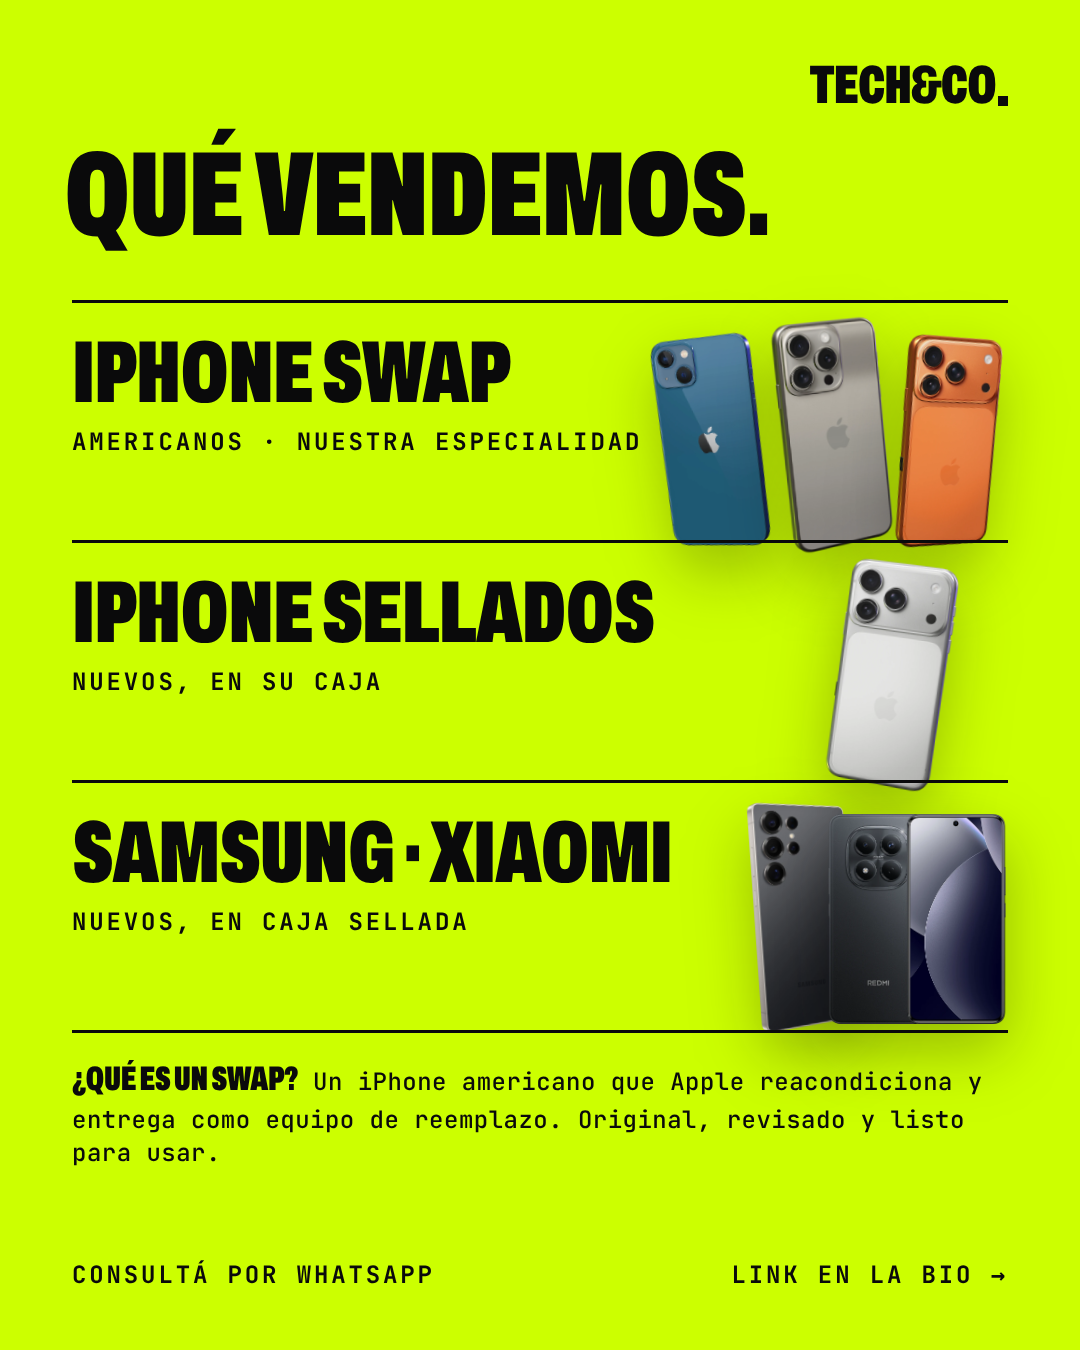
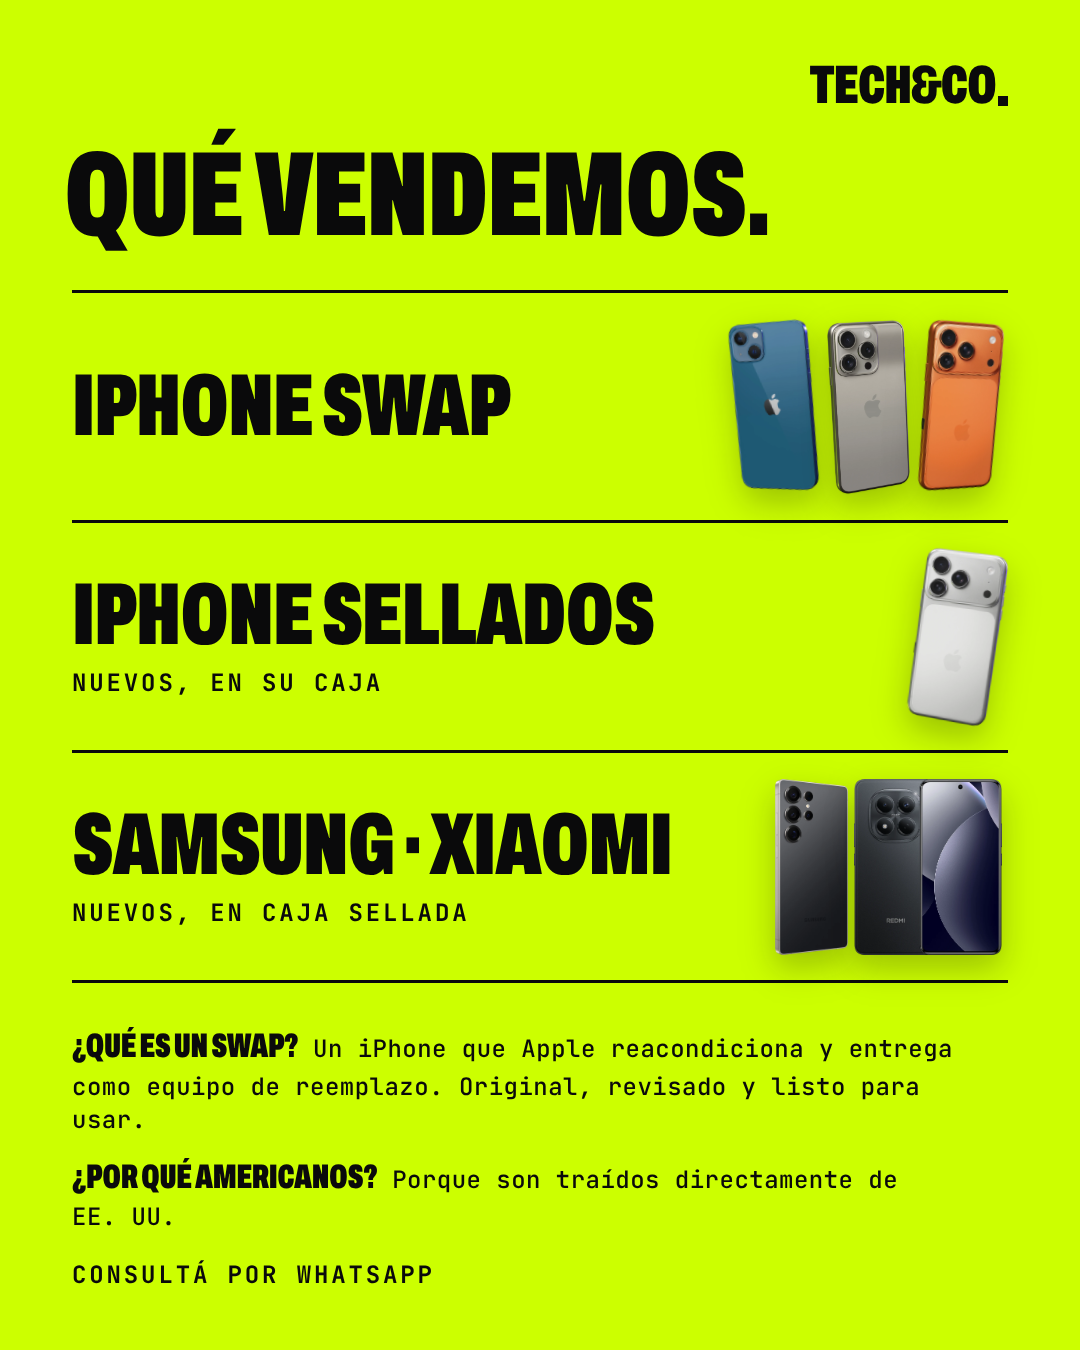
Flyer qué vendemos: «Los mejores en», «¿Por qué americanos?», filas prolijas y sin «Link en la bio»
Claude-Session: https://claude.ai/code/session_01QjqnXA2NEseQ99853TgKmF

diff --git a/plantillas/flyer.html b/plantillas/flyer.html
@@ -12,7 +12,7 @@
 <link rel="stylesheet" href="piezas.css">
 <!--
   Flyer "qué vendemos" (imagen fija, post 1080×1350):
-    ?opcion=a   Especialistas en iPhone Swap americanos (tinta), con la explicación de qué es un Swap
+    ?opcion=a   Los mejores en iPhone Swap americanos (tinta), con «¿Qué es un Swap?» y «¿Por qué americanos?»
     ?opcion=b   Qué vendemos: tres secciones (iPhone Swap · iPhone sellados · Samsung y Xiaomi) sobre lima
   node exportar_video.js plantillas/flyer.html "opcion=a&formato=post" salida.png --cuadro 0
   Sin precios. Fotos: iPhone en 3D (assets/fotos3d) y Samsung/Xiaomi oficiales (catalogo/img).
@@ -34,39 +34,46 @@
   #a .previa { left: var(--margen); top: 150px; font-size: var(--m-l); color: var(--lima); }
   #a .grande { left: 64px; top: 196px; font-size: var(--t-l); }
   #a .grande .lima-txt { color: var(--lima); }
-  #a .que { left: var(--margen); top: 640px; width: 470px; display: flex; flex-direction: column; gap: 18px; }
+  #a .que { left: var(--margen); top: 590px; width: 470px; display: flex; flex-direction: column; gap: 40px; }
+  #a .que div { display: flex; flex-direction: column; gap: 14px; }
   #a .que h2 { font-size: var(--t-xs); margin: 0; color: var(--lima); }
-  #a .tambien { left: var(--margen); right: var(--margen); top: 1035px; display: flex; flex-direction: column; gap: 14px; }
+  #a .tambien { left: var(--margen); right: var(--margen); top: 1080px; display: flex; flex-direction: column; gap: 14px; }
   #a .tambien .rot { font-size: var(--m-m); color: var(--acero); }
   #a .tambien .lista { font-size: var(--t-xs); }
   #a .tambien .lista span { color: var(--lima); }
-  #a .disco { position: absolute; left: 790px; top: 830px; width: 470px; height: 470px; translate: -50% -50%; border-radius: 50%; background: var(--voltio); }
+  #a .disco { position: absolute; left: 790px; top: 790px; width: 470px; height: 470px; translate: -50% -50%; border-radius: 50%; background: var(--voltio); }
 
   /* ---- opción B ---- */
   #b .grande { left: 64px; top: 140px; font-size: var(--t-m); }
-  #b .fila { position: absolute; left: var(--margen); right: var(--margen); height: 240px; border-top: 3px solid var(--tinta); }
-  #b .fila .txt { position: absolute; left: 0; top: 30px; display: flex; flex-direction: column; gap: 12px; }
+  /* filas iguales entre líneas de 3 px; los equipos van dentro de cada fila, sin tocar las líneas */
+  #b .filas { left: var(--margen); right: var(--margen); top: 290px; border-bottom: 3px solid var(--tinta); }
+  #b .fila { height: 230px; border-top: 3px solid var(--tinta); display: flex; align-items: center; justify-content: space-between; gap: 24px; }
+  #b .fila .txt { display: flex; flex-direction: column; gap: 12px; }
+  #b .fila .fotos { display: flex; align-items: center; gap: 6px; padding-right: 6px; }
+  #b .fila .fotos img { height: 176px; filter: drop-shadow(0 14px 16px rgba(10,10,11,.25)); }
   #b .fila .nombre { font-size: var(--t-s); }
   #b .fila .det { font-size: var(--m-m); }
-  #b .swap { left: var(--margen); right: var(--margen); top: 1030px; border-top: 3px solid var(--tinta); padding-top: 22px; }
+  #b .swap { left: var(--margen); right: var(--margen); top: 1022px; display: flex; flex-direction: column; gap: 16px; }
   #b .swap b { font-family: var(--f-titulo); font-weight: 900; font-stretch: 62%; text-transform: uppercase; font-size: 34px; letter-spacing: var(--ls-titulo); }
 </style>
 </head>
 <body>
 
-<!-- ======================= OPCIÓN A · ESPECIALISTAS ======================= -->
+<!-- ======================= OPCIÓN A · LOS MEJORES EN IPHONE SWAP ======================= -->
 <section id="a" class="tinta">
   <div class="abs cabeza mono"><span></span><span class="logo-tc">Tech<b>&amp;</b>Co<i></i></span></div>
-  <div class="abs mono previa">Especialistas en</div>
+  <div class="abs mono previa">Los mejores en</div>
   <div class="abs titulo grande">iPhone Swap<br><span class="lima-txt">americanos.</span></div>
 
   <div class="disco"></div>
-  <img class="foto" src="assets/fotos3d/15pro-natural.webp" alt="iPhone 15 Pro titanio natural" style="left: 680px; top: 840px; height: 470px; rotate: -10deg;">
-  <img class="foto" src="assets/fotos3d/17pro-plata-frente.webp" alt="iPhone 17 Pro plata" style="left: 850px; top: 820px; height: 530px; rotate: 6deg;">
+  <img class="foto" src="assets/fotos3d/15pro-natural.webp" alt="iPhone 15 Pro titanio natural" style="left: 680px; top: 800px; height: 470px; rotate: -10deg;">
+  <img class="foto" src="assets/fotos3d/17pro-plata-frente.webp" alt="iPhone 17 Pro plata" style="left: 850px; top: 780px; height: 530px; rotate: 6deg;">
 
   <div class="abs que">
-    <h2 class="titulo">¿Qué es un Swap?</h2>
-    <p class="parrafo" style="margin: 0;">Es un iPhone americano que Apple reacondiciona y entrega como equipo de reemplazo. Original, revisado y listo para usar.</p>
+    <div><h2 class="titulo">¿Qué es un Swap?</h2>
+      <p class="parrafo" style="margin: 0;">Es un iPhone que Apple reacondiciona y entrega como equipo de reemplazo. Original, revisado y listo para usar.</p></div>
+    <div><h2 class="titulo">¿Por qué americanos?</h2>
+      <p class="parrafo" style="margin: 0;">Porque son traídos directamente de EE.&nbsp;UU.</p></div>
   </div>
 
   <div class="abs tambien">
@@ -74,7 +81,7 @@
     <span class="titulo lista">iPhone en caja sellada <span>·</span> Samsung <span>·</span> Xiaomi</span>
     <span class="mono rot" style="color: var(--hueso);">Nuevos, en caja sellada</span>
   </div>
-  <div class="abs pie mono"><span>Consultá por WhatsApp</span><span>Link en la bio →</span></div>
+  <div class="abs pie mono"><span>Consultá por WhatsApp</span></div>
 </section>
 
 <!-- ======================= OPCIÓN B · QUÉ VENDEMOS ======================= -->
@@ -82,35 +89,33 @@
   <div class="abs cabeza mono"><span></span><span class="logo-tc">Tech<b>&amp;</b>Co<i></i></span></div>
   <div class="abs titulo grande">Qué vendemos.</div>
 
-  <div class="fila" style="top: 300px;">
-    <div class="txt">
-      <span class="titulo nombre">iPhone Swap</span>
-      <span class="mono det">Americanos · Nuestra especialidad</span>
+  <div class="abs filas">
+    <div class="fila">
+      <div class="txt"><span class="titulo nombre">iPhone Swap</span></div>
+      <div class="fotos">
+        <img src="assets/fotos3d/13-azul.webp" alt="iPhone 13 azul" style="rotate: -8deg;">
+        <img src="assets/fotos3d/15pro-natural.webp" alt="iPhone 15 Pro titanio natural">
+        <img src="assets/fotos3d/17pro-naranja-der.webp" alt="iPhone 17 Pro naranja cósmico" style="rotate: 8deg;">
+      </div>
     </div>
-    <img class="foto" src="assets/fotos3d/13-azul.webp" alt="iPhone 13 azul" style="left: 640px; top: 140px; height: 220px; rotate: -10deg;">
-    <img class="foto" src="assets/fotos3d/15pro-natural.webp" alt="iPhone 15 Pro titanio natural" style="left: 760px; top: 132px; height: 236px; rotate: -3deg;">
-    <img class="foto" src="assets/fotos3d/17pro-naranja-der.webp" alt="iPhone 17 Pro naranja cósmico" style="left: 875px; top: 140px; height: 220px; rotate: 8deg;">
+    <div class="fila">
+      <div class="txt"><span class="titulo nombre">iPhone sellados</span><span class="mono det">Nuevos, en su caja</span></div>
+      <div class="fotos"><img src="assets/fotos3d/17pro-plata-frente.webp" alt="iPhone 17 Pro plata" style="rotate: 6deg;"></div>
+    </div>
+    <div class="fila">
+      <div class="txt"><span class="titulo nombre">Samsung · Xiaomi</span><span class="mono det">Nuevos, en caja sellada</span></div>
+      <div class="fotos">
+        <img src="../catalogo/img/galaxy-s25-ultra.webp" alt="Samsung Galaxy S25 Ultra">
+        <img src="../catalogo/img/redmi-note-15-pro.webp" alt="Xiaomi Redmi Note 15 Pro">
+      </div>
+    </div>
   </div>
 
-  <div class="fila" style="top: 540px;">
-    <div class="txt">
-      <span class="titulo nombre">iPhone sellados</span>
-      <span class="mono det">Nuevos, en su caja</span>
-    </div>
-    <img class="foto" src="assets/fotos3d/17pro-plata-frente.webp" alt="iPhone 17 Pro plata" style="left: 820px; top: 132px; height: 230px; rotate: 6deg;">
+  <div class="abs swap">
+    <p class="parrafo" style="margin: 0;"><b>¿Qué es un Swap?</b> Un iPhone que Apple reacondiciona y entrega como equipo de reemplazo. Original, revisado y listo para usar.</p>
+    <p class="parrafo" style="margin: 0;"><b>¿Por qué americanos?</b> Porque son traídos directamente de EE.&nbsp;UU.</p>
   </div>
-
-  <div class="fila" style="top: 780px;">
-    <div class="txt">
-      <span class="titulo nombre">Samsung · Xiaomi</span>
-      <span class="mono det">Nuevos, en caja sellada</span>
-    </div>
-    <img class="foto" src="../catalogo/img/galaxy-s25-ultra.webp" alt="Samsung Galaxy S25 Ultra" style="left: 730px; top: 132px; height: 230px; rotate: -4deg;">
-    <img class="foto" src="../catalogo/img/redmi-note-15-pro.webp" alt="Xiaomi Redmi Note 15 Pro" style="left: 845px; top: 136px; height: 210px;">
-  </div>
-
-  <p class="abs swap parrafo" style="margin: 0;"><b>¿Qué es un Swap?</b> Un iPhone americano que Apple reacondiciona y entrega como equipo de reemplazo. Original, revisado y listo para usar.</p>
-  <div class="abs pie mono"><span>Consultá por WhatsApp</span><span>Link en la bio →</span></div>
+  <div class="abs pie mono"><span>Consultá por WhatsApp</span></div>
 </section>
 
 <script>
